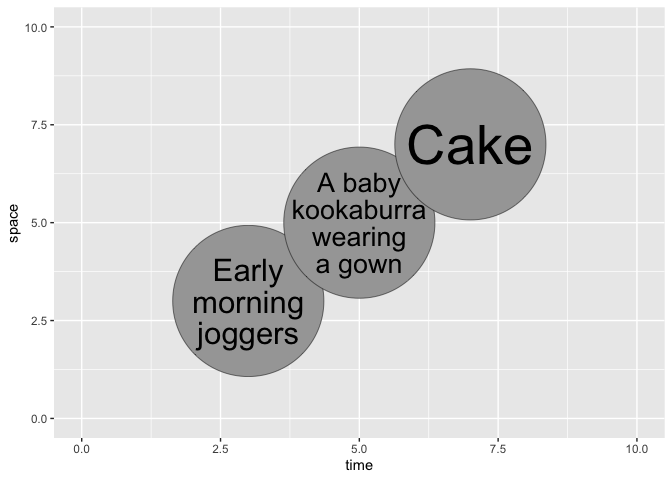
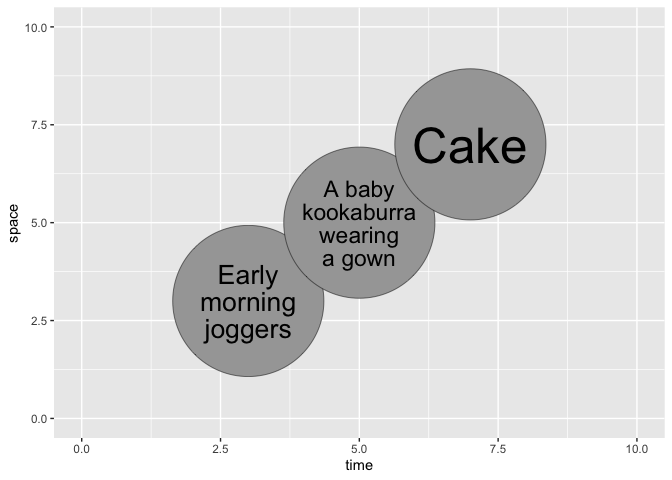
Support grow argument in geom_circumscribe()

Changed region(s): [[0.4375, 0.3438, 0.6562, 0.5938], [0.2812, 0.5312, 0.4688, 0.75], [0.5938, 0.25, 0.8125, 0.3438]]

diff --git a/README.md b/README.md
@@ -44,11 +44,10 @@ example_data <- data.frame(
 )
 
 ggplot(example_data, aes(x = time, y = space, label = observation)) +
-  geom_abs_circle(radius = grid::unit(10, "mm")) +
-  geom_circumscribe(radius = grid::unit(20, "mm"), fontsize = 2, grow = TRUE) +
+  geom_abs_circle(radius = grid::unit(20, "mm")) +
+  geom_circumscribe(radius = grid::unit(20, "mm"), grow = TRUE) +
   scale_x_continuous(limits = c(0, 10)) +
   scale_y_continuous(limits = c(0, 10))
-#> ! The `grow` argument is not yet implemented
 #> ! The `reflow` argument is not yet implemented
 ```
 
@@ -58,7 +57,7 @@ ggplot(example_data, aes(x = time, y = space, label = observation)) +
 
 Currently planned features and changes:
 
-- Implement ‘grow’ and ‘reflow’ parameters
+- Implement ‘reflow’ parameter
 - Change reflowing algorithm to optimise for a circle rather than a
   square
 - Support angled text
